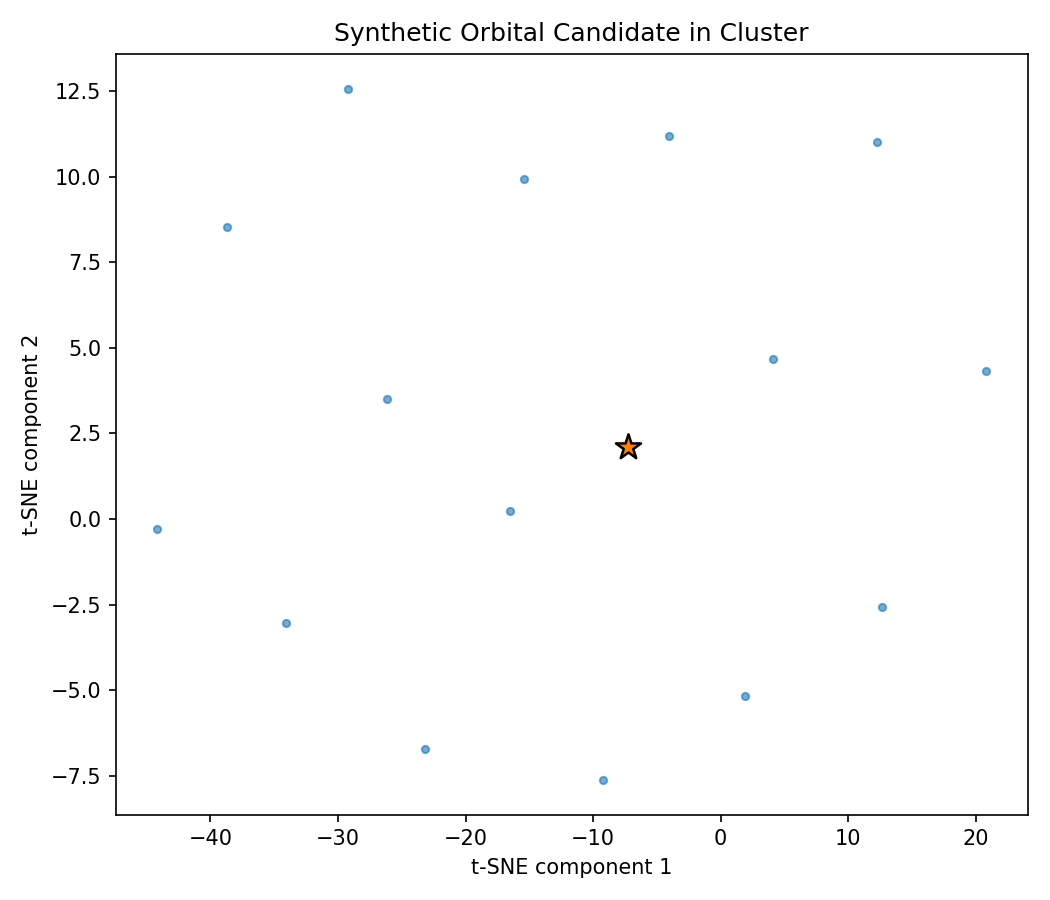
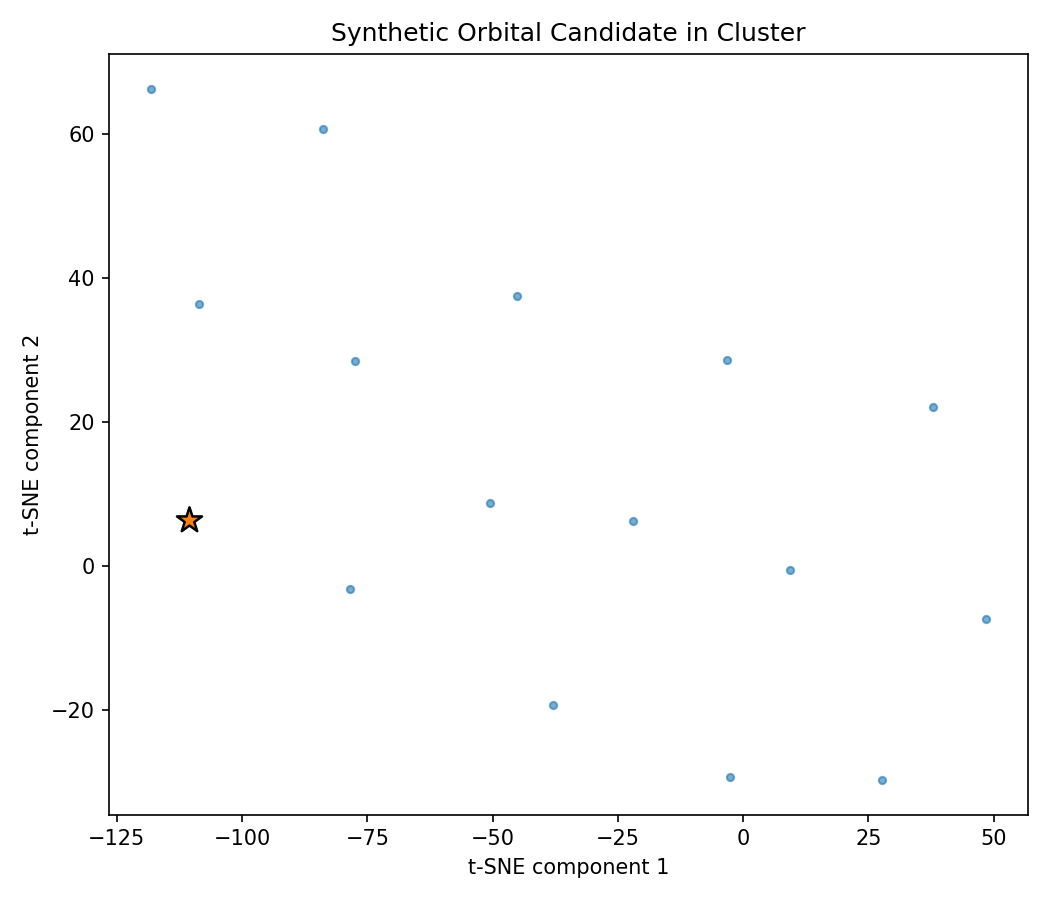
Going to plot for max sep over many cluster sizes after hdbscan

diff --git a/data/tsne_tsne_avg_synthOrb_cluster.html b/data/tsne_tsne_avg_synthOrb_cluster.html
@@ -2,6 +2,6 @@
 <head><meta charset="utf-8" /></head>
 <body>
     <div>                        <script type="text/javascript">window.PlotlyConfig = {MathJaxConfig: 'local'};</script>
[1 lines of base64/hex data omitted]
+        <script charset="utf-8" src="https://cdn.plot.ly/plotly-3.3.0.min.js" integrity="sha256-bO3dS6yCpk9aK4gUpNELtCiDeSYvGYnK7jFI58NQnHI=" crossorigin="anonymous"></script>                <div id="3d0a53c4-d3dc-4a0f-95e2-fb898a7c8ecc" class="plotly-graph-div" style="height:650px; width:800px;"></div>            <script type="text/javascript">                window.PLOTLYENV=window.PLOTLYENV || {};                                if (document.getElementById("3d0a53c4-d3dc-4a0f-95e2-fb898a7c8ecc")) {                    Plotly.newPlot(                        "3d0a53c4-d3dc-4a0f-95e2-fb898a7c8ecc",                        [{"hovertemplate":"SatNo: %{text}\u003cextra\u003e\u003c\u002fextra\u003e","marker":{"color":"rgba(100,100,100,0.6)","opacity":0.7,"size":6},"mode":"markers","name":"Cluster orbits","text":["64842","64843","64844","64845","64846","64847","64850","64851","64852","64853","64855","64857","64860","64862","64864"],"x":{"dtype":"f4","bdata":"96UXQpa9r8H0sBZB0rhBQvMCncKyzJrCXGoXwsPJLMAsgDTCSkDeQY4wSsI\u002fHdnCIVRLwNBS7MLD3qfC"},"y":{"dtype":"f4","bdata":"2BKxQZzlyEBJIQC\u002fIszrwDLUTMDFLORBzQuawWN66sEI0RVC4+ntwRr9CkEmSRFCsCHlQXCehEJfpHJC"},"type":"scatter"},{"hovertemplate":"%{text}\u003cextra\u003e\u003c\u002fextra\u003e","marker":{"color":"crimson","line":{"color":"black","width":2},"size":18,"symbol":"star"},"mode":"markers","name":"Synthetic void orbit","text":["Synthetic orbit (99999)"],"x":{"dtype":"f4","bdata":"Xzfdwg=="},"y":{"dtype":"f4","bdata":"CCzNQA=="},"type":"scatter"}],                        {"template":{"data":{"barpolar":[{"marker":{"line":{"color":"white","width":0.5},"pattern":{"fillmode":"overlay","size":10,"solidity":0.2}},"type":"barpolar"}],"bar":[{"error_x":{"color":"#2a3f5f"},"error_y":{"color":"#2a3f5f"},"marker":{"line":{"color":"white","width":0.5},"pattern":{"fillmode":"overlay","size":10,"solidity":0.2}},"type":"bar"}],"carpet":[{"aaxis":{"endlinecolor":"#2a3f5f","gridcolor":"#C8D4E3","linecolor":"#C8D4E3","minorgridcolor":"#C8D4E3","startlinecolor":"#2a3f5f"},"baxis":{"endlinecolor":"#2a3f5f","gridcolor":"#C8D4E3","linecolor":"#C8D4E3","minorgridcolor":"#C8D4E3","startlinecolor":"#2a3f5f"},"type":"carpet"}],"choropleth":[{"colorbar":{"outlinewidth":0,"ticks":""},"type":"choropleth"}],"contourcarpet":[{"colorbar":{"outlinewidth":0,"ticks":""},"type":"contourcarpet"}],"contour":[{"colorbar":{"outlinewidth":0,"ticks":""},"colorscale":[[0.0,"#0d0887"],[0.1111111111111111,"#46039f"],[0.2222222222222222,"#7201a8"],[0.3333333333333333,"#9c179e"],[0.4444444444444444,"#bd3786"],[0.5555555555555556,"#d8576b"],[0.6666666666666666,"#ed7953"],[0.7777777777777778,"#fb9f3a"],[0.8888888888888888,"#fdca26"],[1.0,"#f0f921"]],"type":"contour"}],"heatmap":[{"colorbar":{"outlinewidth":0,"ticks":""},"colorscale":[[0.0,"#0d0887"],[0.1111111111111111,"#46039f"],[0.2222222222222222,"#7201a8"],[0.3333333333333333,"#9c179e"],[0.4444444444444444,"#bd3786"],[0.5555555555555556,"#d8576b"],[0.6666666666666666,"#ed7953"],[0.7777777777777778,"#fb9f3a"],[0.8888888888888888,"#fdca26"],[1.0,"#f0f921"]],"type":"heatmap"}],"histogram2dcontour":[{"colorbar":{"outlinewidth":0,"ticks":""},"colorscale":[[0.0,"#0d0887"],[0.1111111111111111,"#46039f"],[0.2222222222222222,"#7201a8"],[0.3333333333333333,"#9c179e"],[0.4444444444444444,"#bd3786"],[0.5555555555555556,"#d8576b"],[0.6666666666666666,"#ed7953"],[0.7777777777777778,"#fb9f3a"],[0.8888888888888888,"#fdca26"],[1.0,"#f0f921"]],"type":"histogram2dcontour"}],"histogram2d":[{"colorbar":{"outlinewidth":0,"ticks":""},"colorscale":[[0.0,"#0d0887"],[0.1111111111111111,"#46039f"],[0.2222222222222222,"#7201a8"],[0.3333333333333333,"#9c179e"],[0.4444444444444444,"#bd3786"],[0.5555555555555556,"#d8576b"],[0.6666666666666666,"#ed7953"],[0.7777777777777778,"#fb9f3a"],[0.8888888888888888,"#fdca26"],[1.0,"#f0f921"]],"type":"histogram2d"}],"histogram":[{"marker":{"pattern":{"fillmode":"overlay","size":10,"solidity":0.2}},"type":"histogram"}],"mesh3d":[{"colorbar":{"outlinewidth":0,"ticks":""},"type":"mesh3d"}],"parcoords":[{"line":{"colorbar":{"outlinewidth":0,"ticks":""}},"type":"parcoords"}],"pie":[{"automargin":true,"type":"pie"}],"scatter3d":[{"line":{"colorbar":{"outlinewidth":0,"ticks":""}},"marker":{"colorbar":{"outlinewidth":0,"ticks":""}},"type":"scatter3d"}],"scattercarpet":[{"marker":{"colorbar":{"outlinewidth":0,"ticks":""}},"type":"scattercarpet"}],"scattergeo":[{"marker":{"colorbar":{"outlinewidth":0,"ticks":""}},"type":"scattergeo"}],"scattergl":[{"marker":{"colorbar":{"outlinewidth":0,"ticks":""}},"type":"scattergl"}],"scattermapbox":[{"marker":{"colorbar":{"outlinewidth":0,"ticks":""}},"type":"scattermapbox"}],"scattermap":[{"marker":{"colorbar":{"outlinewidth":0,"ticks":""}},"type":"scattermap"}],"scatterpolargl":[{"marker":{"colorbar":{"outlinewidth":0,"ticks":""}},"type":"scatterpolargl"}],"scatterpolar":[{"marker":{"colorbar":{"outlinewidth":0,"ticks":""}},"type":"scatterpolar"}],"scatter":[{"fillpattern":{"fillmode":"overlay","size":10,"solidity":0.2},"type":"scatter"}],"scatterternary":[{"marker":{"colorbar":{"outlinewidth":0,"ticks":""}},"type":"scatterternary"}],"surface":[{"colorbar":{"outlinewidth":0,"ticks":""},"colorscale":[[0.0,"#0d0887"],[0.1111111111111111,"#46039f"],[0.2222222222222222,"#7201a8"],[0.3333333333333333,"#9c179e"],[0.4444444444444444,"#bd3786"],[0.5555555555555556,"#d8576b"],[0.6666666666666666,"#ed7953"],[0.7777777777777778,"#fb9f3a"],[0.8888888888888888,"#fdca26"],[1.0,"#f0f921"]],"type":"surface"}],"table":[{"cells":{"fill":{"color":"#EBF0F8"},"line":{"color":"white"}},"header":{"fill":{"color":"#C8D4E3"},"line":{"color":"white"}},"type":"table"}]},"layout":{"annotationdefaults":{"arrowcolor":"#2a3f5f","arrowhead":0,"arrowwidth":1},"autotypenumbers":"strict","coloraxis":{"colorbar":{"outlinewidth":0,"ticks":""}},"colorscale":{"diverging":[[0,"#8e0152"],[0.1,"#c51b7d"],[0.2,"#de77ae"],[0.3,"#f1b6da"],[0.4,"#fde0ef"],[0.5,"#f7f7f7"],[0.6,"#e6f5d0"],[0.7,"#b8e186"],[0.8,"#7fbc41"],[0.9,"#4d9221"],[1,"#276419"]],"sequential":[[0.0,"#0d0887"],[0.1111111111111111,"#46039f"],[0.2222222222222222,"#7201a8"],[0.3333333333333333,"#9c179e"],[0.4444444444444444,"#bd3786"],[0.5555555555555556,"#d8576b"],[0.6666666666666666,"#ed7953"],[0.7777777777777778,"#fb9f3a"],[0.8888888888888888,"#fdca26"],[1.0,"#f0f921"]],"sequentialminus":[[0.0,"#0d0887"],[0.1111111111111111,"#46039f"],[0.2222222222222222,"#7201a8"],[0.3333333333333333,"#9c179e"],[0.4444444444444444,"#bd3786"],[0.5555555555555556,"#d8576b"],[0.6666666666666666,"#ed7953"],[0.7777777777777778,"#fb9f3a"],[0.8888888888888888,"#fdca26"],[1.0,"#f0f921"]]},"colorway":["#636efa","#EF553B","#00cc96","#ab63fa","#FFA15A","#19d3f3","#FF6692","#B6E880","#FF97FF","#FECB52"],"font":{"color":"#2a3f5f"},"geo":{"bgcolor":"white","lakecolor":"white","landcolor":"white","showlakes":true,"showland":true,"subunitcolor":"#C8D4E3"},"hoverlabel":{"align":"left"},"hovermode":"closest","mapbox":{"style":"light"},"paper_bgcolor":"white","plot_bgcolor":"white","polar":{"angularaxis":{"gridcolor":"#EBF0F8","linecolor":"#EBF0F8","ticks":""},"bgcolor":"white","radialaxis":{"gridcolor":"#EBF0F8","linecolor":"#EBF0F8","ticks":""}},"scene":{"xaxis":{"backgroundcolor":"white","gridcolor":"#DFE8F3","gridwidth":2,"linecolor":"#EBF0F8","showbackground":true,"ticks":"","zerolinecolor":"#EBF0F8"},"yaxis":{"backgroundcolor":"white","gridcolor":"#DFE8F3","gridwidth":2,"linecolor":"#EBF0F8","showbackground":true,"ticks":"","zerolinecolor":"#EBF0F8"},"zaxis":{"backgroundcolor":"white","gridcolor":"#DFE8F3","gridwidth":2,"linecolor":"#EBF0F8","showbackground":true,"ticks":"","zerolinecolor":"#EBF0F8"}},"shapedefaults":{"line":{"color":"#2a3f5f"}},"ternary":{"aaxis":{"gridcolor":"#DFE8F3","linecolor":"#A2B1C6","ticks":""},"baxis":{"gridcolor":"#DFE8F3","linecolor":"#A2B1C6","ticks":""},"bgcolor":"white","caxis":{"gridcolor":"#DFE8F3","linecolor":"#A2B1C6","ticks":""}},"title":{"x":0.05},"xaxis":{"automargin":true,"gridcolor":"#EBF0F8","linecolor":"#EBF0F8","ticks":"","title":{"standoff":15},"zerolinecolor":"#EBF0F8","zerolinewidth":2},"yaxis":{"automargin":true,"gridcolor":"#EBF0F8","linecolor":"#EBF0F8","ticks":"","title":{"standoff":15},"zerolinecolor":"#EBF0F8","zerolinewidth":2}}},"legend":{"itemsizing":"constant"},"title":{"text":"t-SNE diagnostic: cluster vs synthetic void orbit"},"xaxis":{"title":{"text":"t-SNE component 1"}},"yaxis":{"title":{"text":"t-SNE component 2"}},"width":800,"height":650},                        {"responsive": true}                    )                };            </script>        </div>
 </body>
 </html>

diff --git a/unique_orbits/uct_fitting/main.py b/unique_orbits/uct_fitting/main.py
@@ -64,13 +64,13 @@ class UCTFitting:
         # print(cluster_counts)
 
         # Append optimized orbit for this dataset
-        df = get_optimum_orbit(df)
+        # df = get_optimum_orbit(df)
         
-        # df, diagnostics = get_maximally_separated_orbit(df, return_diagnostics=True)
-        # print("Void orbit diagnostics:")
-        # print(f"  NN distance: {diagnostics['r_star']:.6f}")
-        # print(f"  Percentile: {diagnostics['percentile_vs_cluster']:.1f}%")
-        # print(f"  Ratio to median: {diagnostics['ratio_to_median_spacing']:.2f}×")
+        df, diagnostics = get_maximally_separated_orbit(df, return_diagnostics=True)
+        print("Void orbit diagnostics:")
+        print(f"  NN distance: {diagnostics['r_star']:.6f}")
+        print(f"  Percentile: {diagnostics['percentile_vs_cluster']:.1f}%")
+        print(f"  Ratio to median: {diagnostics['ratio_to_median_spacing']:.2f}×")
         
         return df
 
@@ -90,7 +90,6 @@ class UCTFitting:
 
         chosen_label = selected[0]
         return df[df['label'] == chosen_label].copy()
-            
 
     def test_keplerians(self, df):
         # Select only the row where satNo is '99999'

diff --git a/unique_orbits/uct_fitting/orbit_finder/get_optimum_orbit.py b/unique_orbits/uct_fitting/orbit_finder/get_optimum_orbit.py
@@ -307,24 +307,21 @@ def refine_maxmin(x0, kepler_list, bounds):
 
     return res.x, -res.fun
 
-
 def get_maximally_separated_orbit(df, n_samples=5000, return_diagnostics=True):
     """
     Find a synthetic orbit that maximizes distance to its nearest neighbour
     (largest empty ball in Keplerian element space).
     """
 
-    # --- collect real orbits ---
     all_keplers = [
         get_keplerian_array_from_tle(row)
         for _, row in df.iterrows()
     ]
 
     if len(all_keplers) < 2:
-        print("Not enough orbits for max–min optimization.")
+        print("Not enough orbits for max-min optimization.")
         return df
 
-    # --- bounds (same logic as get_optimum_orbit) ---
     min_a = min(k[0] for k in all_keplers)
     min_e = min(k[1] for k in all_keplers)
     min_i = min(k[2] for k in all_keplers)
@@ -386,15 +383,10 @@ def get_maximally_separated_orbit(df, n_samples=5000, return_diagnostics=True):
 
     test_orbit(df)
     
-    
-    
     if return_diagnostics:
         diagnostics = evaluate_void_orbit(x_star, all_keplers)
         return df, diagnostics
     return df
-    
-
-
 
 def cluster_spacing_stats(kepler_list):
     """
